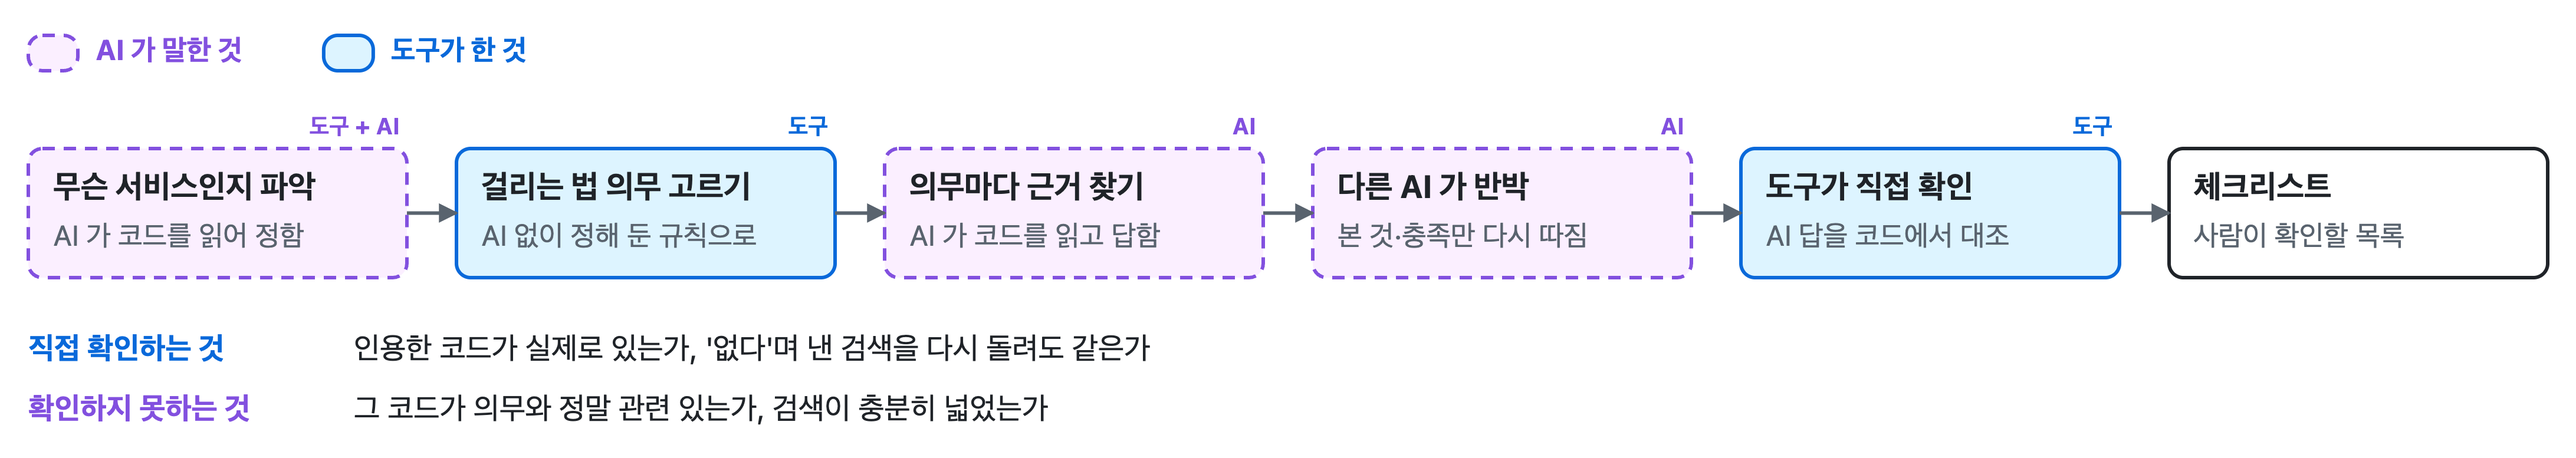
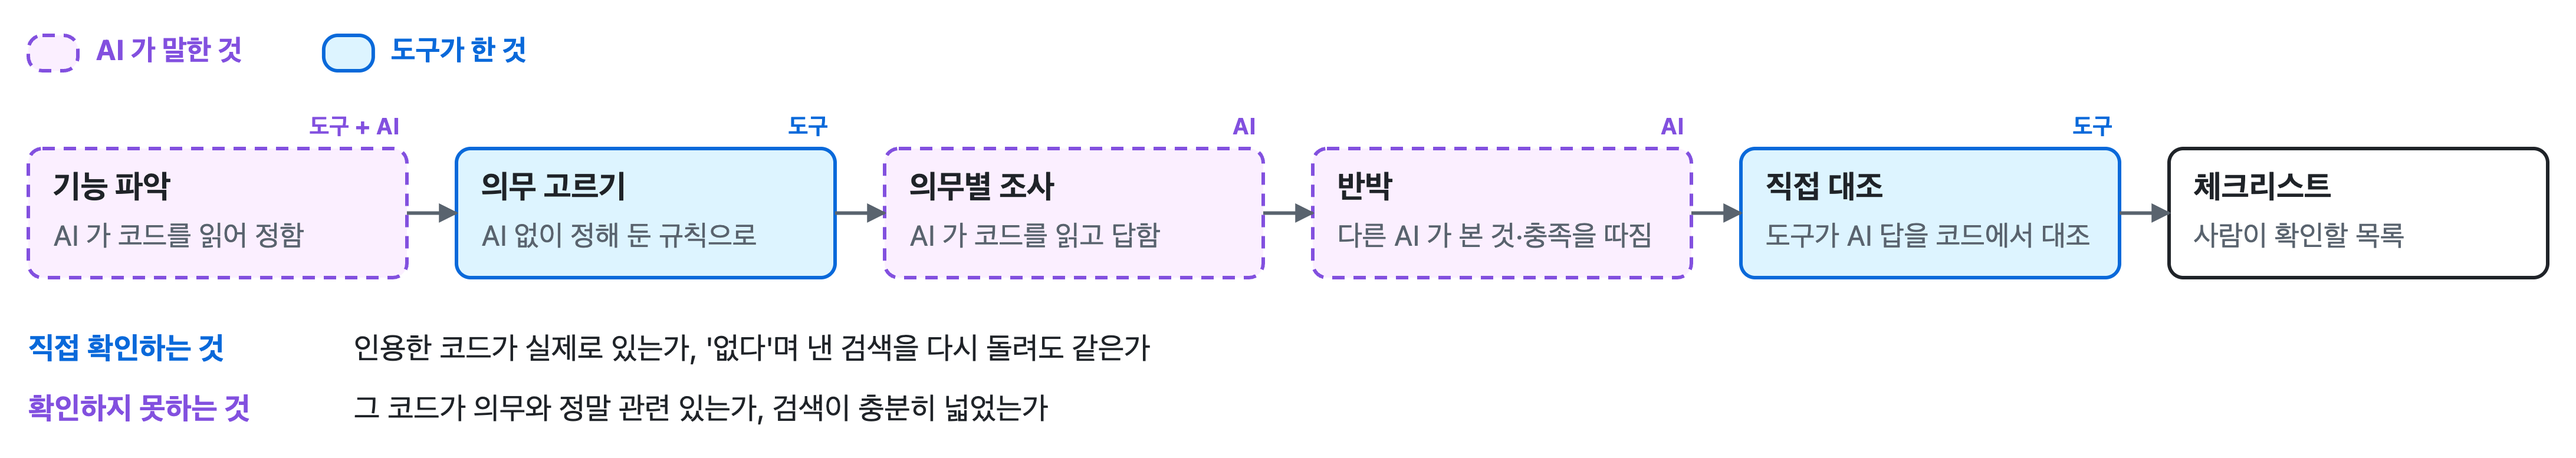
web16 d: 좁은 화면의 개인정보 흐름은 '외부로 보냄' 세로 목록과 '그림 보기', 검토 여섯 단계 이름을 맞추고, 조문 도감 머리에 전체 지도의 범위
- 개인정보 흐름(접은 구획): 640px 아래에서는 외부 마디의 이름과 항목을 세로 목록으로 먼저 보이고, 그림은 '그림 보기'를 눌러야 보인다
  (FlowToggle. 넓은 화면은 그림 그대로, 단추·목록 없음. 그림은 한 번만 그린다).
- 여섯 단계 이름을 포스터와 같게: 기능 파악 → 의무 고르기 → 의무별 조사 → 반박 → 직접 대조 → 체크리스트. /how 의 쉬운 판(검토 엔진)과
  따라가 보기의 ①~⑥. 진행 표시(steps.ts)는 이미 같은 이름이었다. 시험이 셋을 함께 본다. docs/figures 다시 뽑음.
- 체크리스트 내보내기의 검증 줄: '검사기가 거절' → '도구가 받지 않음', '부재 검색' → '없다 검색'(화면의 검증 정보와 같은 말).
- 조문 도감 머리: 'AI 검토가 묻는 의무 220개 · 법령 45 · 기능 21 (전체 지도: 법령 206 · 의무 795 · 기능 27)'. 읽은 법령 수는 CLI 의
  docs/lawmap/README.md 첫 문단, 기능 수는 features.yaml 에서 export-duty-map.mjs 가 옮긴다(data/duty-map.json 의 map).
- 지시의 나머지는 이미 맞다: 휴대폰 첫 화면(web18 의 한 줄과 첫 카드, 시험 있음), README 첫 문단(web17), Semgrep·정적 규칙의 이름과
  41곳 표·사례 쪽의 머리 줄(web17 에서 지움).

diff --git a/src/lib/how/figures.ts b/src/lib/how/figures.ts
@@ -185,11 +185,11 @@ function reviewSimple(): Figure {
   const lx = c.swatch(16, 34, "model", "AI 가 말한 것", BIG.line);
   c.swatch(lx + 32, 34, "tool", "도구가 한 것", BIG.line);
   const steps: [string, string, Tone][] = [
-    ["무슨 서비스인지 파악", "AI 가 코드를 읽어 정함", "model"],
-    ["걸리는 법 의무 고르기", "AI 없이 정해 둔 규칙으로", "tool"],
-    ["의무마다 근거 찾기", "AI 가 코드를 읽고 답함", "model"],
-    ["다른 AI 가 반박", "본 것·충족만 다시 따짐", "model"],
-    ["도구가 직접 확인", "AI 답을 코드에서 대조", "tool"],
+    ["기능 파악", "AI 가 코드를 읽어 정함", "model"],
+    ["의무 고르기", "AI 없이 정해 둔 규칙으로", "tool"],
+    ["의무별 조사", "AI 가 코드를 읽고 답함", "model"],
+    ["반박", "다른 AI 가 본 것·충족을 따짐", "model"],
+    ["직접 대조", "도구가 AI 답을 코드에서 대조", "tool"],
     ["체크리스트", "사람이 확인할 목록", "keep"],
   ];
   const w = 214;
@@ -305,19 +305,19 @@ function traceFigure(source: TraceSource): Figure {
   const evidence = feature.evidence[0];
   const rows: Row[] = [
     {
-      title: "① 감지된 기능",
+      title: "① 기능 파악",
       who: "도구가 코드 신호로",
       tone: "tool",
       lines: [{ text: feature.name, bold: true }, { text: `신호: ${evidence.file}${evidence.line ? `:${evidence.line}` : ""} — ${evidence.what}` }],
     },
     {
-      title: "② 고른 의무",
+      title: "② 의무 고르기",
       who: "도구가 규칙으로",
       tone: "tool",
       lines: [{ text: lawArticle(item.law, item.article), bold: true }, ...wrap(item.duty_text, DW, 15, 2).map((text) => ({ text }))],
     },
     {
-      title: "③ AI 가 댄 근거",
+      title: "③ 의무별 조사",
       who: "AI (조사)",
       tone: "model",
       lines: [
@@ -336,7 +336,7 @@ function traceFigure(source: TraceSource): Figure {
       ].filter((line) => line.text),
     },
     {
-      title: "⑤ 도구가 직접 확인",
+      title: "⑤ 직접 대조",
       who: "조사 답을 받은 바로 뒤",
       tone: "tool",
       lines: [
@@ -353,7 +353,7 @@ function traceFigure(source: TraceSource): Figure {
       ].filter((line) => line.text),
     },
     {
-      title: "⑥ 체크리스트의 그 줄",
+      title: "⑥ 체크리스트",
       who: "사람이 확인할 것",
       tone: "keep",
       lines: [

diff --git a/src/components/review/ReviewView.tsx b/src/components/review/ReviewView.tsx
@@ -17,7 +17,7 @@ import { fileLink, shortCommit } from "@/lib/service/href";
 import { secondsText } from "@/lib/service/steps";
 import { SITE } from "@/lib/site";
 import { ExpandAll, TierFilter } from "./ChecklistControls";
-import { CitedLines, FlowFigure } from "./FlowFigure";
+import { CitedLines, FlowFigure, FlowToggle } from "./FlowFigure";
 
 /** 확인할 것(세 갈래)의 수. 체크리스트 내보내기·목록 줄의 수와 같은 함수다(`lib/review/text.ts`). */
 export { checkCount };
@@ -85,7 +85,12 @@ export function ReviewView({
         {review.flow.nodes.length === 0 ? (
           <p className="tier-none">없음</p>
         ) : (
-          <FlowFigure layout={layoutFlow(review.flow.nodes, review.flow.edges)} nodes={review.flow.nodes} edges={review.flow.edges} code={code} />
+          <>
+            <FlowOut nodes={review.flow.nodes} />
+            <FlowToggle>
+              <FlowFigure layout={layoutFlow(review.flow.nodes, review.flow.edges)} nodes={review.flow.nodes} edges={review.flow.edges} code={code} />
+            </FlowToggle>
+          </>
         )}
       </Fold>
       <Fold id="rv-service" title="이 저장소가 하는 일" count={`기능 ${review.profile.features.filter((feature) => feature.removed === null).length}가지`}>
@@ -259,6 +264,28 @@ function More({
         {items.filter((item) => item.status === "unknown").length}건
       </p>
     </section>
+  );
+}
+
+/** 좁은 화면(640px 아래)에서 흐름 그림 대신 보이는 '외부로 보냄' 세로 목록: 외부 마디의 이름과 다루는 항목(2026-11-25 web16 d). */
+function FlowOut({ nodes }: { nodes: Review["flow"]["nodes"] }) {
+  const out = nodes.filter((node) => node.kind === "external");
+  return (
+    <div className="flow-narrow">
+      <p className="flow-out-h">외부로 보냄</p>
+      {out.length === 0 ? (
+        <p className="tier-none">없음</p>
+      ) : (
+        <ul className="flow-out">
+          {out.map((node) => (
+            <li key={node.id}>
+              <strong>{node.label}</strong>
+              {node.data.length > 0 && <span>{node.data.join(", ")}</span>}
+            </li>
+          ))}
+        </ul>
+      )}
+    </div>
   );
 }
 

diff --git a/tests/browser/web16.test.ts b/tests/browser/web16.test.ts
@@ -111,6 +111,30 @@ describe("코드에서 확인된 것과 더 살펴볼 것: 첫 화면(web18)", (
     }
   });
 
+  it("개인정보 흐름: 640px 아래에서는 '외부로 보냄' 세로 목록이 보이고 그림은 '그림 보기'를 눌러야 보인다. 넓은 화면은 그림만(web16 d)", async () => {
+    const visible = (page: Page, selector: string) => page.locator(selector).first().isVisible();
+    for (const [width, height] of [
+      [390, 844],
+      [1280, 800],
+    ] as const) {
+      const { page } = await open(REVIEWED, { viewport: { width, height } });
+      await page.locator("#rv-flow > summary").click();
+      const narrow = width < 640;
+      expect(await visible(page, "#rv-flow .flow-narrow"), `${width}`).toBe(narrow);
+      expect(await visible(page, "#rv-flow .flow-show"), `${width}`).toBe(narrow);
+      expect(await visible(page, "#rv-flow figure.flow"), `${width}`).toBe(!narrow);
+      if (!narrow) continue;
+      expect(await page.locator("#rv-flow .flow-out li").count()).toBe(review.flow.nodes.filter((node) => node.kind === "external").length);
+      const toggle = page.getByRole("button", { name: "그림 보기" });
+      await toggle.click();
+      expect(await visible(page, "#rv-flow figure.flow")).toBe(true);
+      expect(await page.getByRole("button", { name: "그림 접기" }).getAttribute("aria-expanded")).toBe("true");
+      expect(await overflow(page, ".flow-scroll")).toMatchObject({ page: 0, over: [] });
+      await page.getByRole("button", { name: "그림 접기" }).click();
+      expect(await visible(page, "#rv-flow figure.flow")).toBe(false);
+    }
+  });
+
   it("행을 누르면 그 자리에서 펼쳐지고, 주소의 #의무id 로 들어오면 그 행이 펼쳐져 있다. 모두 펼치기·모두 접기", async () => {
     expect(CITED, "카드에 오르지 않고 인용이 둘 이상인 코드에서 본 것이 합성 예시에 없습니다").toBeDefined();
     expect(OTHER, "저장소 밖에서 확인할 것이 합성 예시에 없습니다").toBeDefined();

diff --git a/tests/policy.test.tsx b/tests/policy.test.tsx
@@ -56,6 +56,7 @@ describe("조문 도감 (/policy): 의무 지도", () => {
     asked: number;
     notAsked: { total: number; status: number; other: number };
     features: { id: string; name: string }[];
+    map: { lawsRead: number; features: number };
     duties: Duty[];
   };
   // 쪽 안의 자리 이름: 영문자·숫자·빼기표 밖의 글자는 `_<16진 코드>_`.
@@ -78,7 +79,7 @@ describe("조문 도감 (/policy): 의무 지도", () => {
     expect(readFileSync(path.join(root, ".github/workflows/analyze.yml"), "utf8")).toContain(`CLI_COMMIT: ${map.cli.commit}\n`);
   });
 
-  it("한 줄: 몇 개를 묻고 나머지는 왜 묻지 않는지. 메타 줄은 CLI 커밋·AI 검토가 묻는 의무·법령·기능의 수", () => {
+  it("한 줄: 몇 개를 묻고 나머지는 왜 묻지 않는지. 메타 줄은 CLI 커밋·AI 검토가 묻는 의무·법령·기능의 수와 전체 지도의 범위", () => {
     expect(extra).toBeGreaterThan(0);
     expect(squash(index.lead)).toBe(
       squash(
@@ -88,8 +89,13 @@ describe("조문 도감 (/policy): 의무 지도", () => {
       ),
     );
     expect(squash(index.meta)).toBe(
-      squash(`CLI ${map.cli.commit.slice(0, 7)} AI 검토가 묻는 의무 ${map.asked} 법령 ${index.groups.length} 기능 ${map.features.length}`),
+      squash(
+        `CLI ${map.cli.commit.slice(0, 7)} AI 검토가 묻는 의무 ${map.asked}개 법령 ${index.groups.length} 기능 ${map.features.length} ` +
+          `(전체 지도: 법령 ${map.map.lawsRead} · 의무 ${map.total} · 기능 ${map.map.features})`,
+      ),
     );
+    // 전체 지도의 범위는 CLI 의 의무 지도 설명(읽은 법령 206개)과 기능 표(27가지)에서 옮긴 수다(2026-11-25 web16 d).
+    expect([map.map.lawsRead, map.total, map.map.features]).toEqual([206, 795, 27]);
     expect(html).not.toContain('class="lede"');
   });
 

diff --git a/src/app/policy/page.tsx b/src/app/policy/page.tsx
@@ -9,7 +9,7 @@ export const metadata: Metadata = { title: "조문 도감" };
  * 조문 도감 = 의무 지도(2026-11-15 오너 결정). 빌드할 때 그린다.
  *
  * - 한 줄: 의무 지도의 몇 개를 AI 검토가 묻고, 나머지는 왜 묻지 않는지(`data/duty-map.json` 에서 센다).
- * - 메타 한 줄: 의무를 옮긴 CLI 커밋, AI 검토가 묻는 의무·법령·기능의 수.
+ * - 메타 한 줄: 의무를 옮긴 CLI 커밋, AI 검토가 묻는 의무·법령·기능의 수와 전체 지도의 범위(읽은 법령·의무·기능의 수. 2026-11-25 web16 d).
  * - 법령마다 AI 검토가 묻는 의무(`DutyMap`). 기능·법령·제재로 걸러 보고, 의무마다 법에 적힌 제재의 표지가 있다(위에 주의 문구 한 번).
  */
 export default function PolicyIndexPage() {
@@ -24,7 +24,10 @@ export default function PolicyIndexPage() {
         <span>
           CLI <code translate="no">{dutyMap.cli.commit.slice(0, 7)}</code>
         </span>{" "}
-        <span>AI 검토가 묻는 의무 {dutyMap.asked}</span> <span>법령 {groups.length}</span> <span>기능 {dutyMap.features.length}</span>
+        <span>AI 검토가 묻는 의무 {dutyMap.asked}개</span> <span>법령 {groups.length}</span> <span>기능 {dutyMap.features.length}</span>{" "}
+        <span>
+          (전체 지도: 법령 {dutyMap.map.lawsRead} · 의무 {dutyMap.total} · 기능 {dutyMap.map.features})
+        </span>
       </p>
       <p className="dm-lead">
         의무 지도 {dutyMap.total}개 가운데 AI 검토가 묻는 것은 검토 후보 {dutyMap.candidates}개

diff --git a/tests/web18.test.tsx b/tests/web18.test.tsx
@@ -324,6 +324,21 @@ describe("주의 문구와 낱말", () => {
   });
 });
 
+describe("개인정보 흐름의 좁은 화면 목록 (2026-11-25 web16 d)", () => {
+  it("접은 흐름 안에 '외부로 보냄' 세로 목록(외부 마디의 이름과 항목)이 그림 앞에 있고, 그림은 '그림 보기' 단추가 있는 상자 안이다", () => {
+    const flow = first(html, '<details class="rv-fold" id="rv-flow">');
+    const out = review.flow.nodes.filter((node) => node.kind === "external");
+    expect(out.length, "jobtalk 에 외부 마디가 없습니다").toBeGreaterThan(0);
+    const narrow = first(flow, '<div class="flow-narrow">');
+    expect(textOf(first(narrow, '<p class="flow-out-h">'))).toBe("외부로 보냄");
+    const items = elementsOf(narrow, "<li>");
+    expect(items.map(textOf)).toEqual(out.map((node) => `${node.label}${node.data.join(", ")}`));
+    const pic = first(flow, '<div class="flow-pic">');
+    expect(flow.indexOf(narrow)).toBeLessThan(flow.indexOf(pic));
+    expect(pic).toMatch(/^<div class="flow-pic"><button type="button" class="link-btn flow-show" aria-expanded="false">그림 보기<\/button><figure class="flow">/);
+  });
+});
+
 describe("코드를 읽고 뺀 기능 (2026-11-25 오너 지시)", () => {
   it("본문에는 뺀 기능 칸과 'AI 가 더함' 꼬리표가 없고, 검증 정보 안의 접힌 한 줄로만 남는다. 펼치면 까닭과 인용", () => {
     const removed = review.profile.features.filter((feature) => feature.removed !== null);

diff --git a/tests/how.test.ts b/tests/how.test.ts
@@ -5,6 +5,7 @@ import { figureSvg, type Figure } from "@/lib/how/draw";
 import { buildFigures, CLI_PIN, TRACE, traceData, traceSourceLine } from "@/lib/how/figures";
 import { REVIEW_STATUS_LABEL } from "@/lib/report/status";
 import { PRERUNS } from "@/lib/service/prerun";
+import { REVIEW_INNER, SCAN_PART_LABEL } from "@/lib/service/steps";
 import { SITE } from "@/lib/site";
 import { root } from "./helpers";
 
@@ -36,6 +37,15 @@ describe("구조 쪽의 그림", () => {
       ]);
       for (const text of [figure.title, ...texts(figure), ...figure.notes, ...listed]) expect(text, figure.file).not.toMatch(/정적|kr-core|Semgrep|\bscan\b/i);
     }
+  });
+
+  it("검토의 여섯 단계 이름이 쉬운 판·따라가 보기·진행 표시에서 같다(포스터와 같은 이름. 2026-11-25 web16 d)", () => {
+    const SIX = ["기능 파악", "의무 고르기", "의무별 조사", "반박", "직접 대조", "체크리스트"];
+    const flow = simple.find((figure) => figure.file === "analysis-flow-simple")!;
+    expect(flow.list[0].items.map((item) => item.title)).toEqual(SIX);
+    expect(trace.list.flatMap((section) => section.items.map((item) => item.title))).toEqual(SIX.map((name, i) => `${"①②③④⑤⑥"[i]} ${name}`));
+    expect(SCAN_PART_LABEL.profile).toBe(SIX[0]);
+    expect(REVIEW_INNER).toBe(SIX.slice(1, 5).join(" → "));
   });
 
   it("쉬운 판은 상자 7개 이하이고, 숫자·커밋·모델 이름·CLI 낱말이 없다(명령 이름은 작은 글씨로만)", () => {

diff --git a/src/components/review/FlowFigure.tsx b/src/components/review/FlowFigure.tsx
@@ -1,12 +1,29 @@
 "use client";
 
-import { useState, type KeyboardEvent } from "react";
+import { useState, type KeyboardEvent, type ReactNode } from "react";
 import { Icon } from "@/components/Icon";
 import type { CodeSource } from "@/lib/service/href";
 import { Where } from "@/components/result/Where";
 import type { FlowEdge, FlowKind, FlowNode, ReviewCitation } from "@/lib/review";
 import type { FlowLayout } from "@/lib/review/flow";
 import { fileLink, shortCommit } from "@/lib/service/href";
+
+/**
+ * 좁은 화면(640px 아래)의 그림 상자(2026-11-25 web16 d). 그 화면에서는 위에 '외부로 보냄' 세로 목록을 두고 그림은 '그림 보기'를 눌러야
+ * 보인다(가로로 밀리는 그림의 '외부' 칸이 화면 밖에 있었다). 넓은 화면에서는 단추가 없고 그림이 늘 보인다(CSS). 스크립트가 붙기 전에는
+ * 좁은 화면에서 목록만 보인다.
+ */
+export function FlowToggle({ children }: { children: ReactNode }) {
+  const [on, setOn] = useState(false);
+  return (
+    <div className={`flow-pic${on ? " on" : ""}`}>
+      <button type="button" className="link-btn flow-show" aria-expanded={on} onClick={() => setOn(!on)}>
+        그림 {on ? "접기" : "보기"}
+      </button>
+      {children}
+    </div>
+  );
+}
 
 /** 마디 종류의 이름(화면 낭독기와 고른 마디의 머리). */
 const KIND_LABEL: Record<FlowKind, string> = { input: "받는 것", server: "처리", store: "저장", external: "외부" };

diff --git a/src/app/globals.css b/src/app/globals.css
@@ -3069,6 +3069,60 @@ details.ob[open] > summary::before {
   padding: var(--space-3);
 }
 
+/*
+ * 좁은 화면(640px 아래, 2026-11-25 web16 d): 그림 대신 '외부로 보냄' 세로 목록을 두고, 그림은 '그림 보기'(FlowToggle)를 눌러야 보인다.
+ * 넓은 화면에서는 목록과 단추가 없다.
+ */
+.flow-narrow,
+.flow-show {
+  display: none;
+}
+
+.flow-out-h {
+  margin: 0 0 var(--space-2);
+  font-weight: 600;
+  color: var(--st-review);
+}
+
+.flow-out {
+  display: grid;
+  gap: var(--space-2);
+  margin: 0;
+  padding: 0;
+  list-style: none;
+}
+
+.flow-out li {
+  display: grid;
+  gap: 2px;
+  padding: var(--space-2) var(--space-3);
+  border: 1px solid var(--st-review-dot);
+  border-left-width: 3px;
+  border-radius: var(--radius);
+  background: var(--st-review-bg);
+}
+
+.flow-out li span {
+  font-size: var(--text-sm);
+  color: var(--muted);
+}
+
+@media (max-width: 639px) {
+  .flow-narrow {
+    display: block;
+    margin-bottom: var(--space-3);
+  }
+
+  .flow-show {
+    display: inline-flex;
+    margin-bottom: var(--space-3);
+  }
+
+  .flow-pic:not(.on) > .flow {
+    display: none;
+  }
+}
+
 /* 넓은 화면에서는 상자 폭에 맞춰 키우고(발표 화면), 좁은 화면에서는 이 폭 아래로 줄이지 않고 상자 안에서 밀린다. */
 .flow-svg {
   display: block;

diff --git a/tests/browser/policy.test.ts b/tests/browser/policy.test.ts
@@ -92,10 +92,11 @@ const shownNames = (page: Page, selector: string) =>
   );
 
 describe("조문 도감의 글", () => {
-  it("메타 한 줄은 CLI 커밋과 AI 검토가 묻는 의무·법령·기능의 수다. 정적 규칙(정책 쪽 링크, #status·#scope, 정적 규칙 블록)은 없다", async () => {
+  it("메타 한 줄은 CLI 커밋과 AI 검토가 묻는 의무·법령·기능의 수, 전체 지도의 범위다. 정적 규칙(정책 쪽 링크, #status·#scope, 정적 규칙 블록)은 없다", async () => {
     const { page } = await open(INDEX);
     expect((await page.locator(".pi-meta").textContent())?.replace(/\s+/g, " ").trim()).toBe(
-      `CLI ${dutyMap.cli.commit.slice(0, 7)} AI 검토가 묻는 의무 ${dutyMap.asked} 법령 ${groups.length} 기능 ${dutyMap.features.length}`,
+      `CLI ${dutyMap.cli.commit.slice(0, 7)} AI 검토가 묻는 의무 ${dutyMap.asked}개 법령 ${groups.length} 기능 ${dutyMap.features.length} ` +
+        `(전체 지도: 법령 ${dutyMap.map.lawsRead} · 의무 ${dutyMap.total} · 기능 ${dutyMap.map.features})`,
     );
     await openAll(page);
     expect(await page.locator("main").textContent()).not.toContain("정적 규칙");

diff --git a/tests/browser/served-files.test.ts b/tests/browser/served-files.test.ts
@@ -261,7 +261,10 @@ describe("빌드된 사이트의 조문 도감(/policy/, 의무 지도)", () => 
     expect(rows.map((row) => row.id).sort()).toEqual(dutyMap.duties.map((duty) => dutyAnchor(duty.id)).sort());
     expect(rows).toHaveLength(dutyMap.asked);
     expect(index.groups.map((group) => group.name)).toEqual(lawGroups().map((group) => group.name));
-    expect(index.meta).toBe(`CLI ${dutyMap.cli.commit.slice(0, 7)} AI 검토가 묻는 의무 ${dutyMap.asked} 법령 ${lawGroups().length} 기능 ${dutyMap.features.length}`);
+    expect(index.meta).toBe(
+      `CLI ${dutyMap.cli.commit.slice(0, 7)} AI 검토가 묻는 의무 ${dutyMap.asked}개 법령 ${lawGroups().length} 기능 ${dutyMap.features.length} ` +
+        `(전체 지도: 법령 ${dutyMap.map.lawsRead} · 의무 ${dutyMap.total} · 기능 ${dutyMap.map.features})`,
+    );
     expect(index.lead).toContain(`의무 지도 ${dutyMap.total}개`);
   });
 

diff --git a/tests/checklist.test.ts b/tests/checklist.test.ts
@@ -79,6 +79,10 @@ describe("체크리스트 내보내기", () => {
       expect(text).toContain(run.commit.slice(0, 7));
       expect(text).toContain(`- ${SITE.prerun} ${run.ranOn}`);
       expect(text).toContain(`조사 ${review.run.models.investigate}`);
+      // 검증 정보의 말은 화면과 같다: '도구'·'없다 검색'(2026-11-25 web16 d. '검사기'·'부재 검색'을 쓰지 않는다).
+      expect(text).toContain(`- 인용: ${review.run.citations}개 · 도구가 받지 않음 ${review.run.citationsRejected}개`);
+      expect(text).toContain(`- 없다 검색: ${review.run.searches}개`);
+      expect(text).not.toMatch(/검사기|부재/);
       const todo = doc.groups.filter((group) => group.todo).reduce((n, group) => n + group.entries.length, 0);
       expect(text.match(/^- \[ \] /gm)?.length ?? 0).toBe(todo);
       for (const item of review.checklist) {
